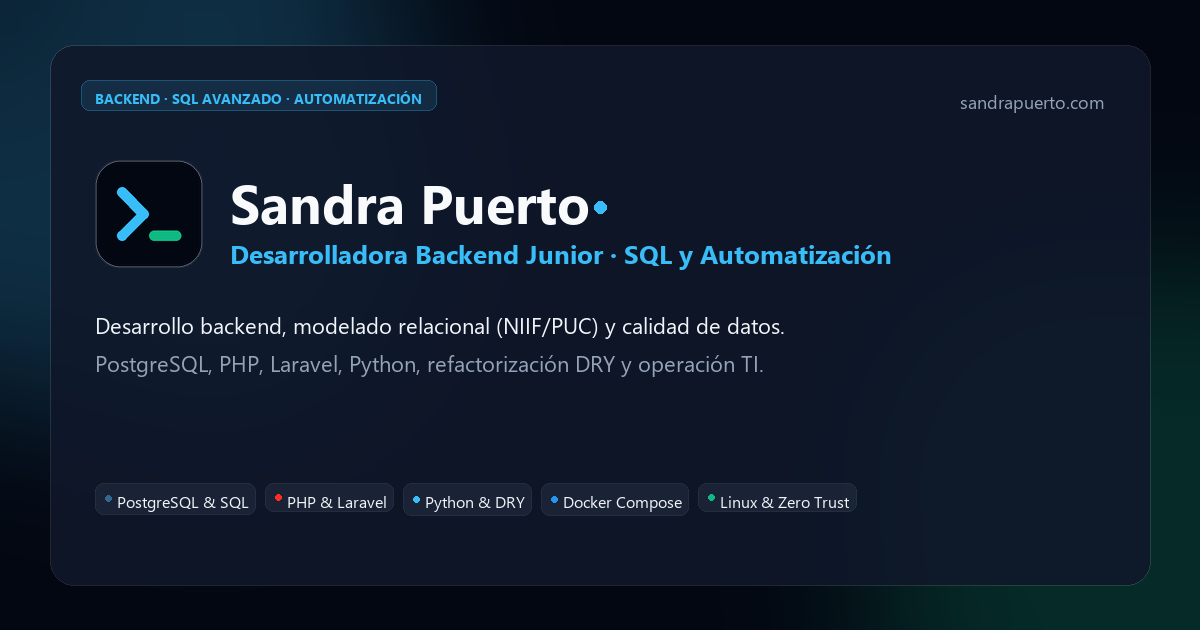
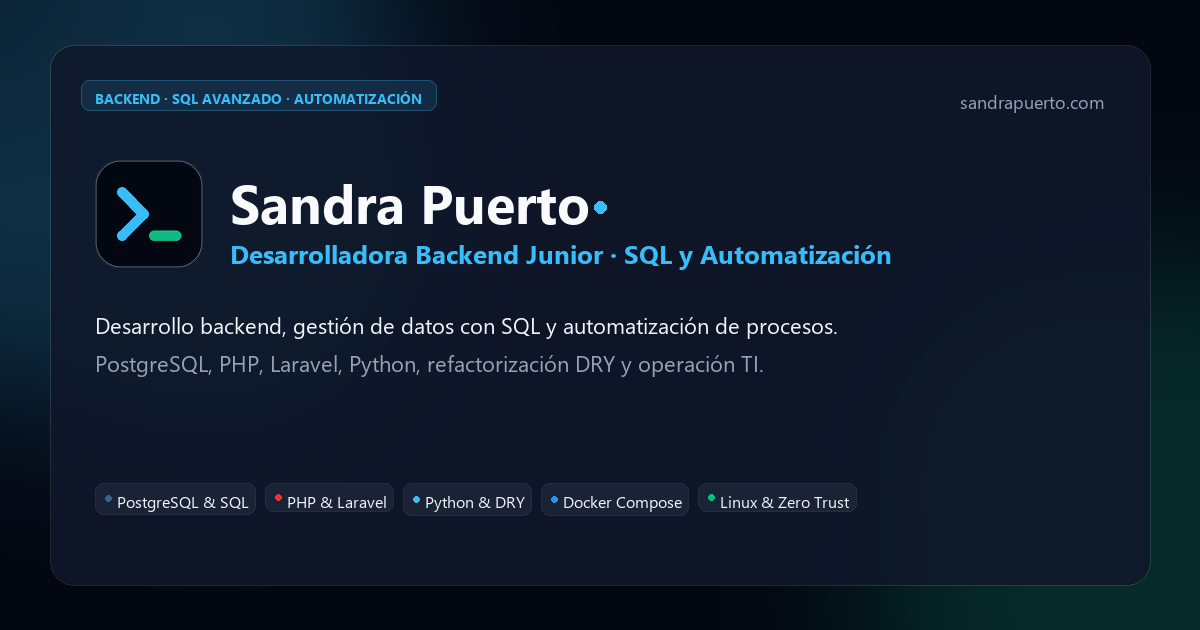
feat: update OG image caption and index text for clarity on backend data management

Changed region(s): [[0.2467, 0.4825, 0.7092, 0.5429]]

diff --git a/public/index.html b/public/index.html
@@ -109,7 +109,7 @@
         <div class="container">
           <span class="hero-tag animate-in">Desarrolladora Backend Junior · SQL y Automatización de Procesos · Tecnóloga SENA COPNIA</span>
           <h1 class="animate-in delay-1">
-            Desarrollo backend, calidad de datos con SQL
+            Desarrollo backend, gestión de datos con SQL
             <span class="text-gradient">y automatización de procesos</span>.
           </h1>
           <p class="subtitle animate-in delay-2">

diff --git a/scripts/generate_assets.py b/scripts/generate_assets.py
@@ -157,7 +157,7 @@ def create_og_image():
     
     # Description lines
     desc_y = 310
-    draw.text((95, desc_y), "Desarrollo backend, modelado relacional (NIIF/PUC) y calidad de datos.", font=f_desc, fill="#f1f5f9")
+    draw.text((95, desc_y), "Desarrollo backend, gestión de datos con SQL y automatización de procesos.", font=f_desc, fill="#f1f5f9")
     draw.text((95, desc_y + 38), "PostgreSQL, PHP, Laravel, Python, refactorización DRY y operación TI.", font=f_desc, fill="#94a3b8")
     
     # Draw tag text and dots
@@ -387,7 +387,7 @@ def create_linkedin_cover():
     
     # Headline — professional, direct, no drama
     headline_y = 330
-    draw.text((lx, headline_y), "Desarrollo backend, modelado relacional (NIIF/PUC) y calidad de datos.", font=f_headline, fill="#e2e8f0")
+    draw.text((lx, headline_y), "Desarrollo backend, gestión de datos con SQL y automatización de procesos.", font=f_headline, fill="#e2e8f0")
     draw.text((lx, headline_y + 48), "PostgreSQL, Python, PHP/Laravel, refactorización DRY y entornos TI.", font=f_headline, fill="#94a3b8")
     
     # ── Metrics ──
